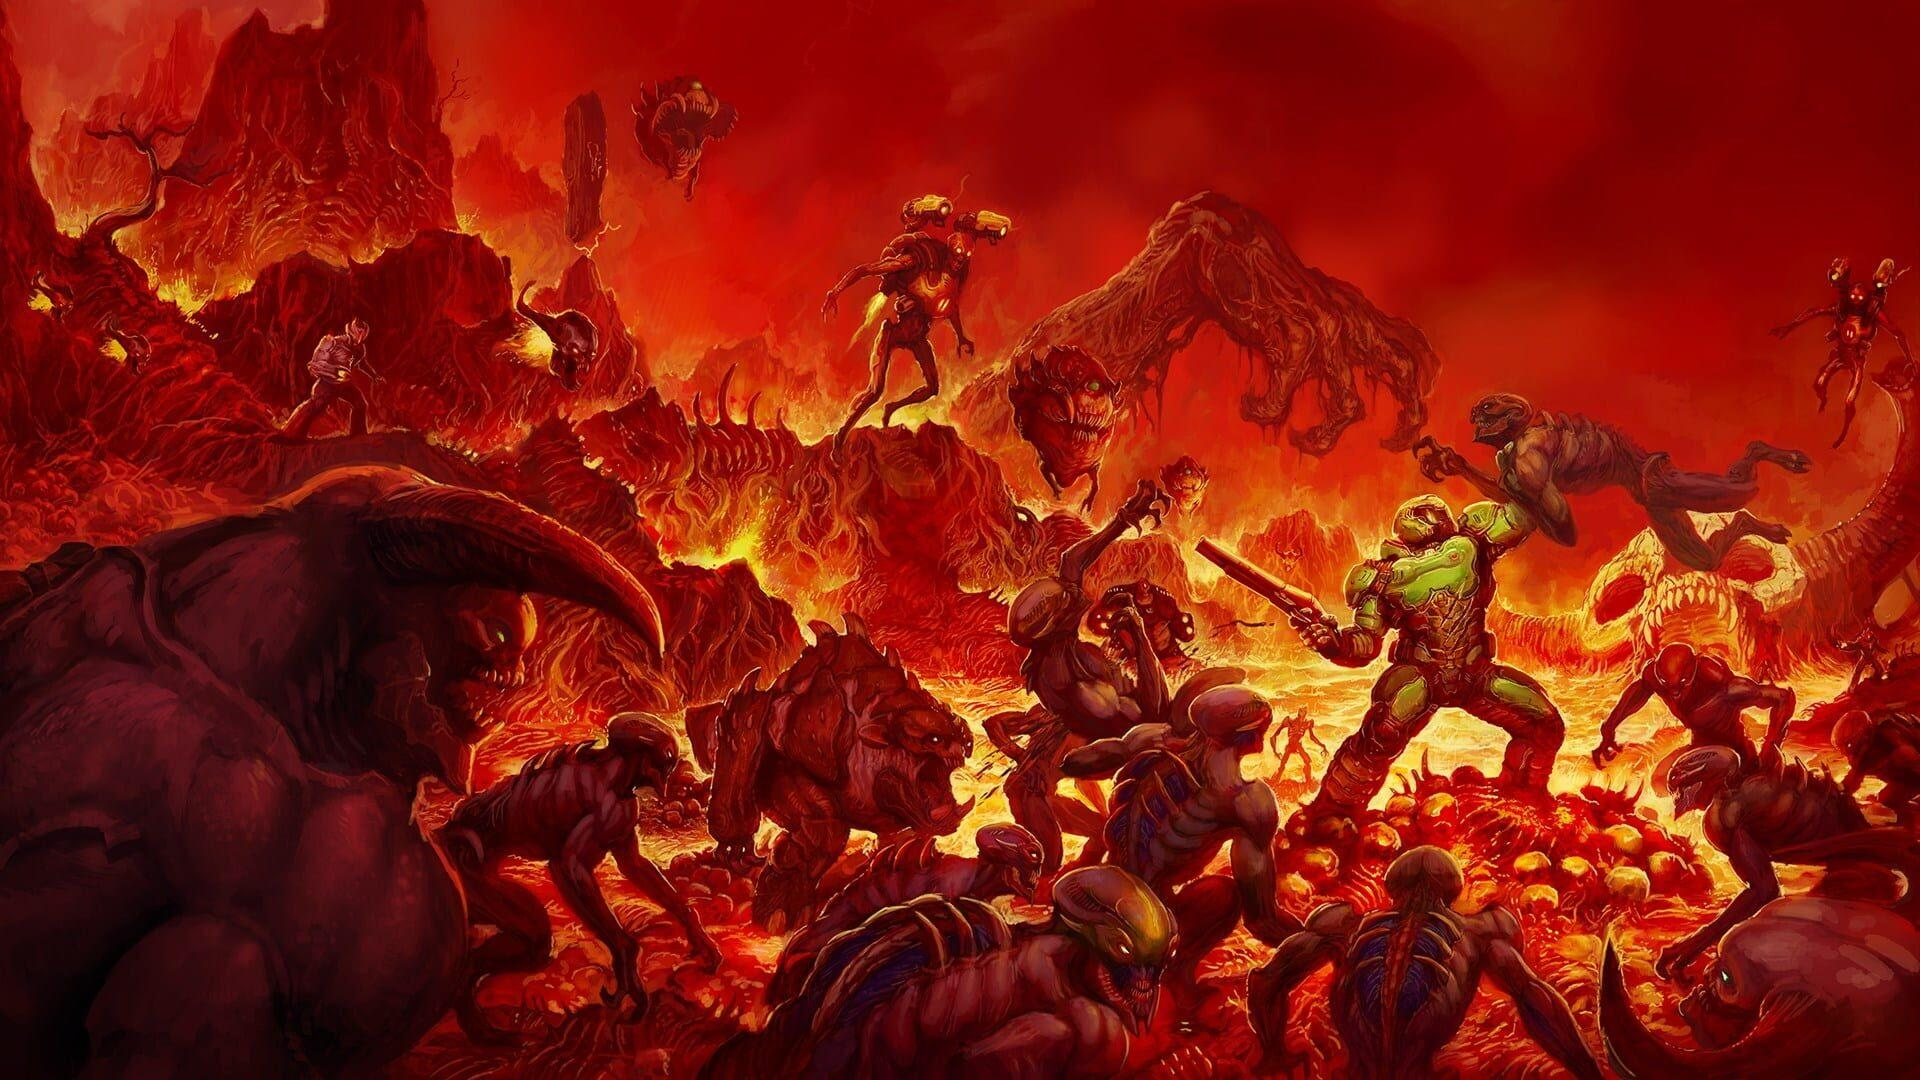
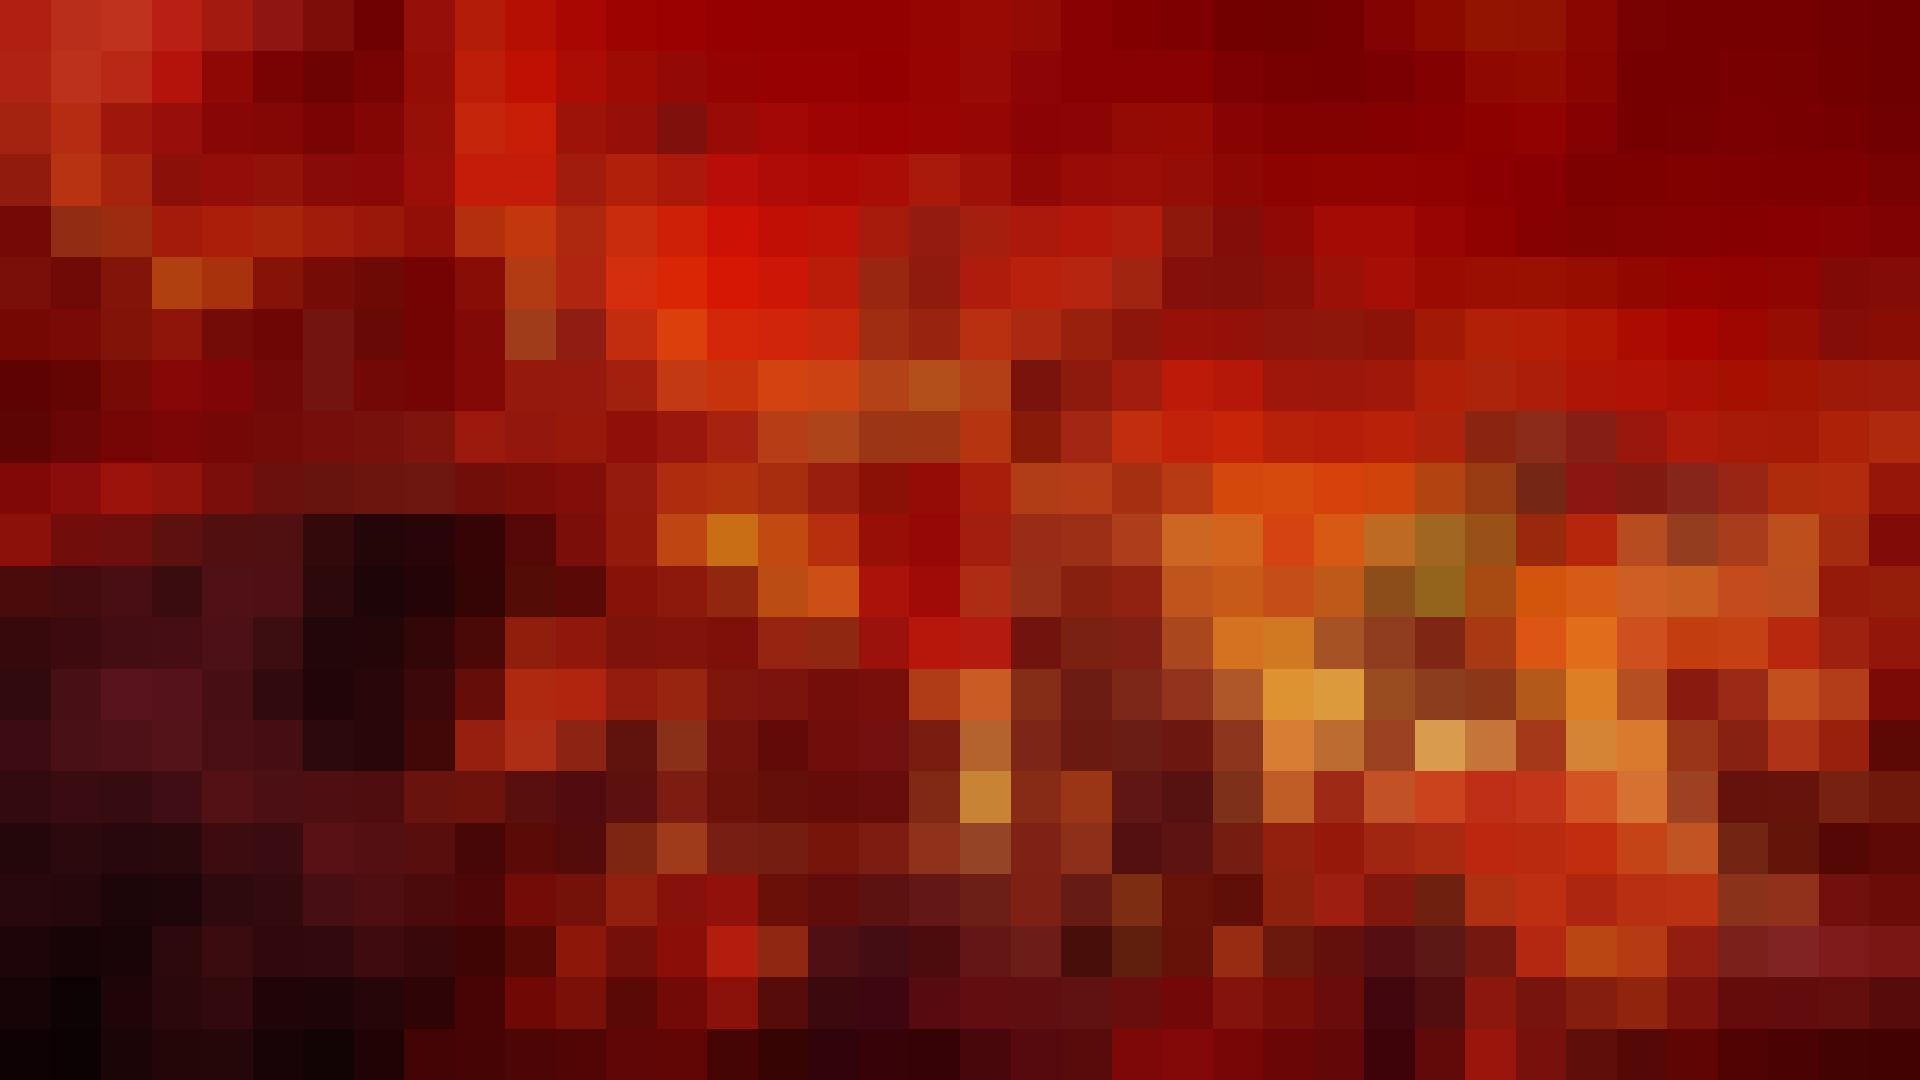
fix bug in pixelization logic

diff --git a/front.py b/front.py
@@ -12,15 +12,17 @@ def index():
 
     if attempt_count == 0:
         pixelization_degree = 100
-    elif attempt_count == 1:
+    if attempt_count == 1:
         pixelization_degree = 50
-    elif attempt_count == 2:
+    if attempt_count == 2:
         pixelization_degree = 25
-    elif attempt_count == 3:
+    if attempt_count == 3:
         pixelization_degree = 10
-    elif attempt_count == 4:
+    if attempt_count == 4:
         pixelization_degree = 5
-    elif attempt_count == 5:
+    if attempt_count == 5:
+        pixelization_degree = 1
+    if attempt_count == 6:
         pixelization_degree = 1
 
 
@@ -36,6 +38,9 @@ def index():
         image = convert_image_to_base64(pixelize_image_path)
         response = make_response(render_template('index.html',b64_img = image))
         response.set_cookie("game", str(random_game_id), max_age=60*60*24)
+        if attempt_count < 6:
+            attempt_count += 1
+        response.set_cookie("attempts", str(attempt_count), max_age=60*60*24) 
         return response
 
     original_image_path = select_image(request.cookies.get("game"))
@@ -47,10 +52,10 @@ def index():
     image = convert_image_to_base64(pixelize_image_path)
 
     if request.method == "POST":
-        game_title = request.form.get("game")
+        game_title_guess = request.form.get("game")
         if attempt_count < 6:
             attempt_count += 1  # Increase attempt count
-        print(f"Attempt #{attempt_count}: {game_title}")
+        print(f"Attempt #{attempt_count}: {game_title_guess}")
         response = make_response(render_template('index.html', b64_img = image))
         response.set_cookie("attempts", str(attempt_count), max_age=60*60*24)  # 1 day expiry
         return response

diff --git a/pixelize.py b/pixelize.py
@@ -11,8 +11,8 @@ def pixelize_image(input_path, output_path, pixel_size):
     result = small.resize(img.size, Image.NEAREST)
     result.save(output_path)
 
-
-
+# Example usage
+pixelize_image("images/76217.jpg", "pixelized.jpg", 50)
 
 # 100
 # 50
